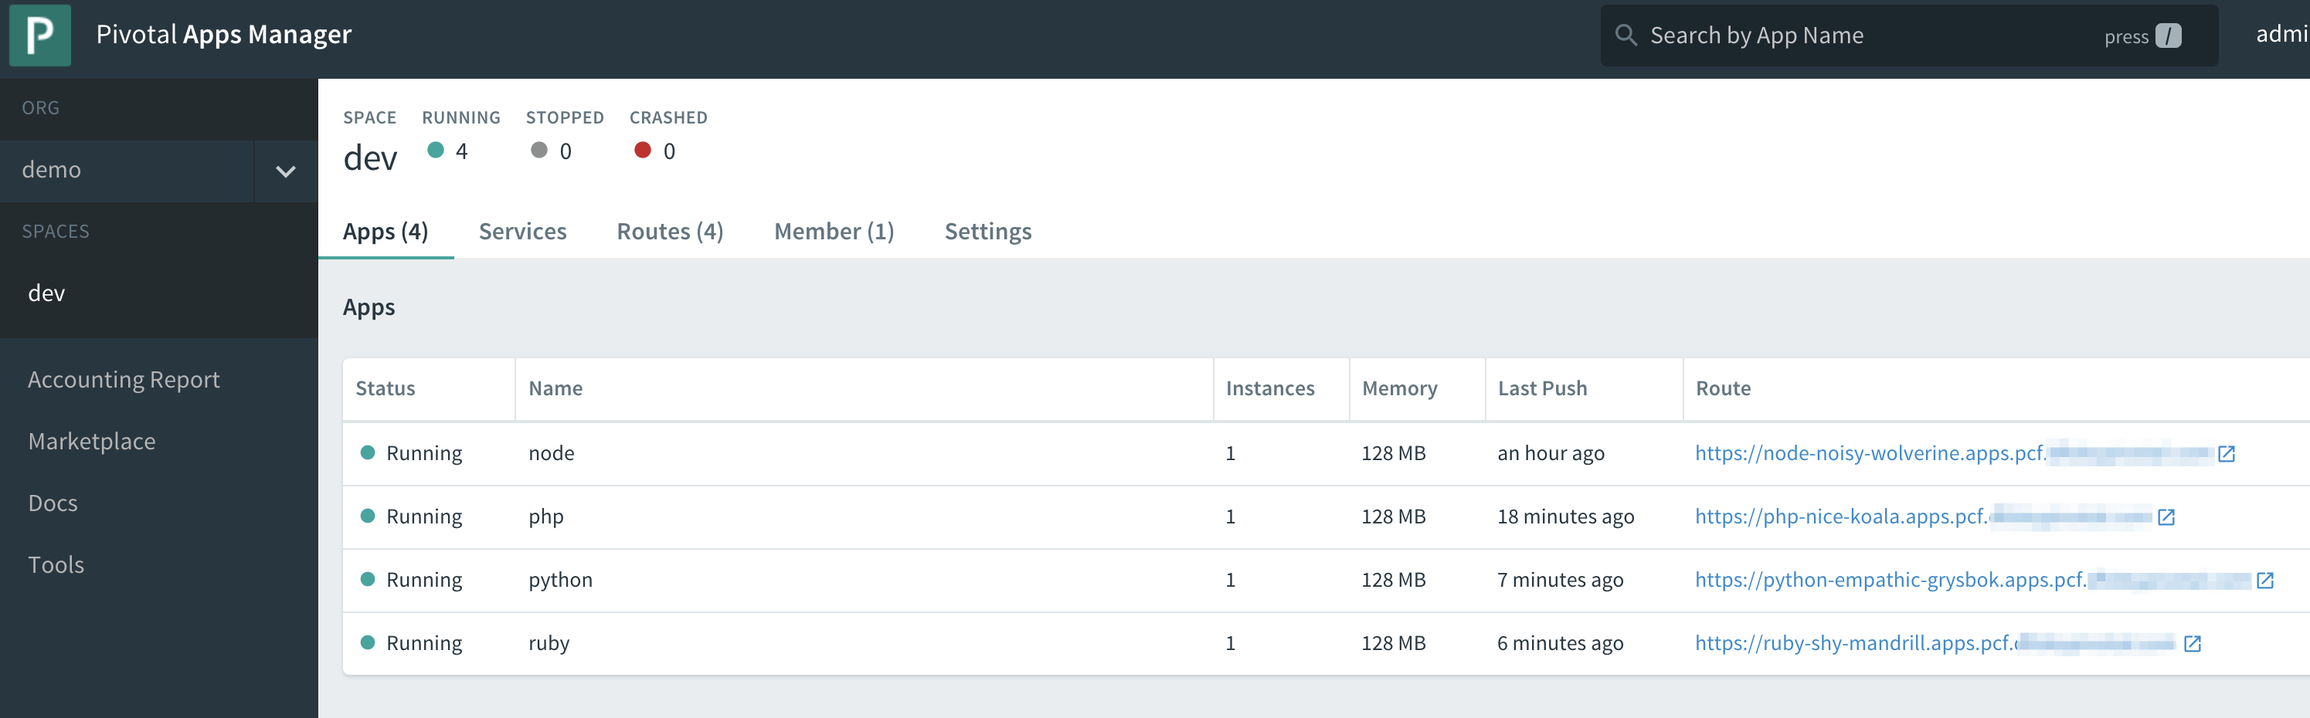
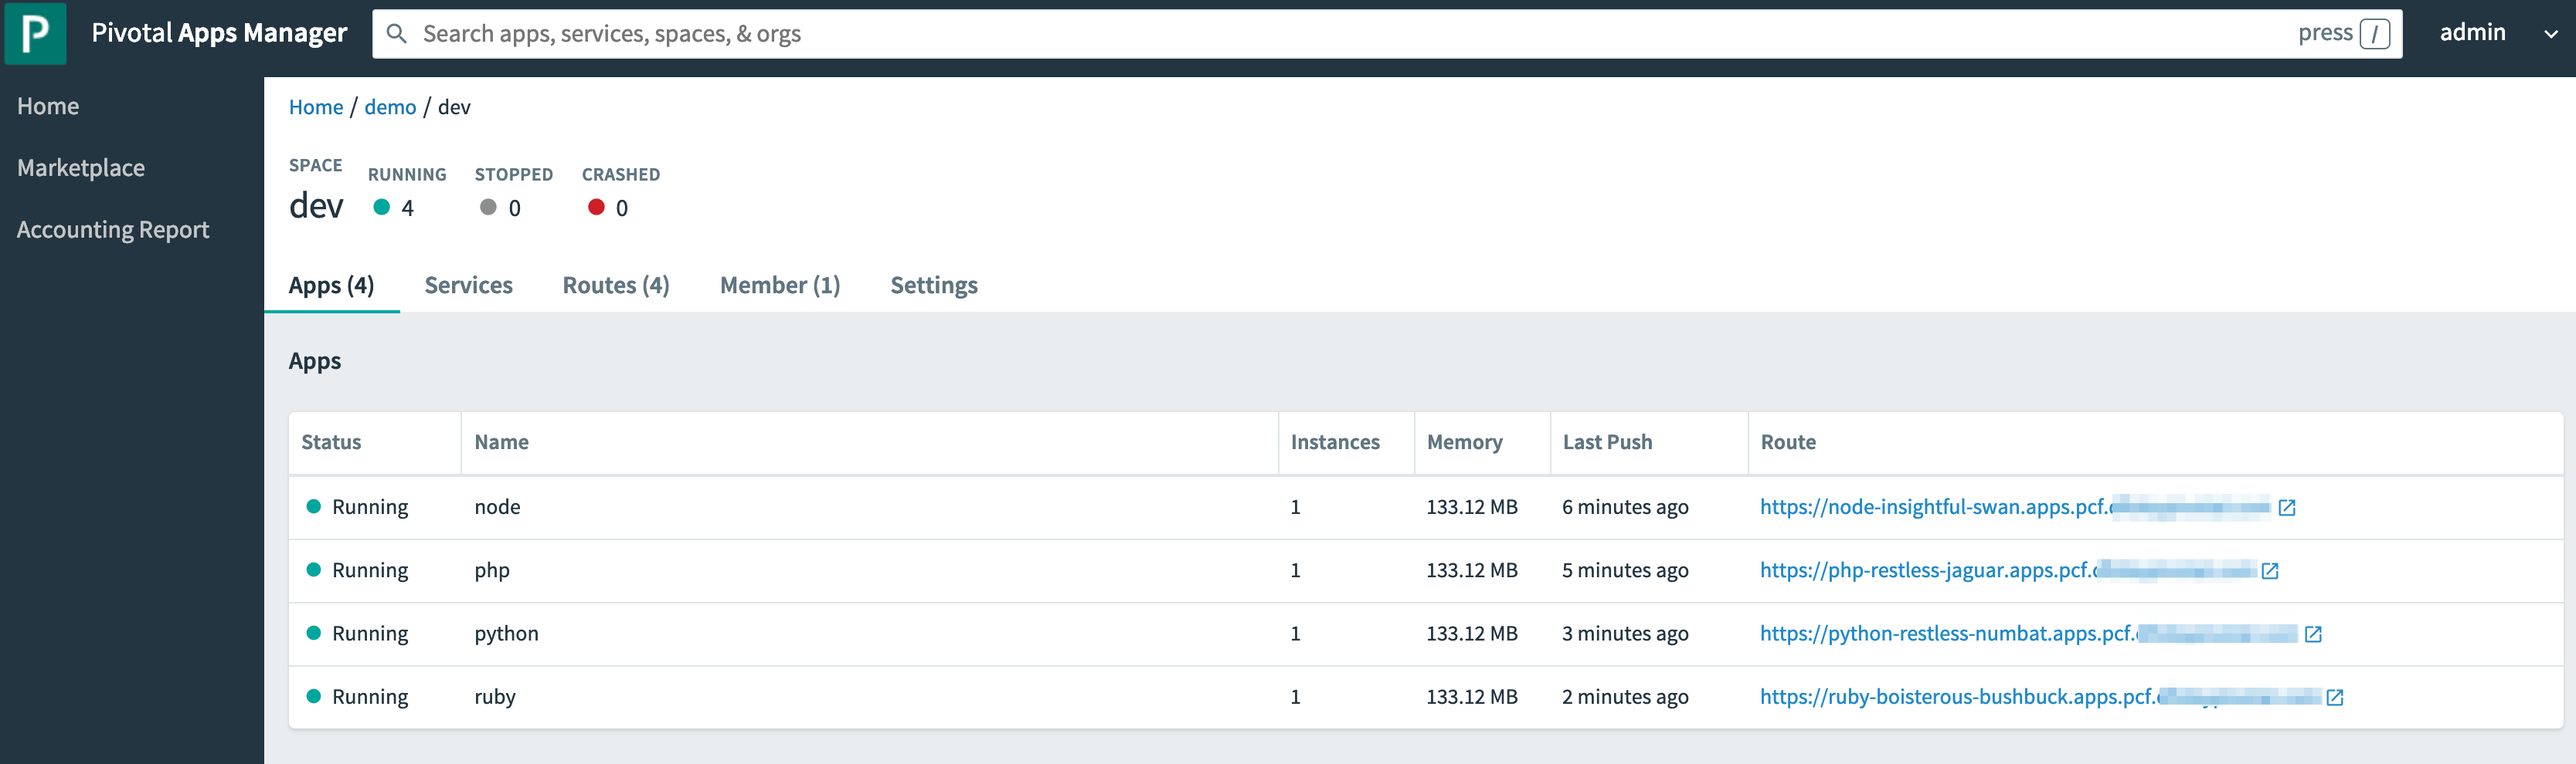
Updated screenshots for latest GCP Quickstart

diff --git a/README.md b/README.md
@@ -1,5 +1,5 @@
 ![](images/title.png)  
-Update: November 29, 2018
+Update: February 4, 2019
 
 ## Introduction
 
@@ -127,7 +127,7 @@ cf target -o demo -s dev
 <a id="pushapp"></a>
 ## Pushing Apps 
 
-You deploy an app to Cloud Foundry by running a cf push command from the Cloud Foundry Command Line Interface (cf CLI). Between the time that you run cf push and the time that the app is available, Cloud Foundry performs the following tasks:
+You deploy an app to Cloud Foundry by running a **cf push** command from the Cloud Foundry Command Line Interface (cf CLI). Between the time that you run cf push and the time that the app is available, Cloud Foundry performs the following tasks:
 
 - Uploads and stores app files
 - Examines and stores app metadata
@@ -211,7 +211,7 @@ curl <your php application url>
 
 You just deployed four applications each based on a different language and runtime. Pivotal Cloud Foundry is a polyglot platform, meaning it supports multiple languages and does so in a pluggable way (via buildpacks)!
 
-- Switch over to you browser and let refresh the Apps Manger page. You may have to login again. On the left hand side select the **demo** ORG and then select the **dev** SPACE. You should now see all 4 application.
+- Switch over to you browser and let refresh the Apps Manger page. You may have to login again. Select the **demo** ORG and then select the **dev** SPACE. You should now see all 4 application.
 
     ![](images/image19.png)
 
@@ -839,6 +839,7 @@ cf login
 - Login with the newly create developer user. Notice that now you only have access to the **Demo** Org and no longer have access to the **System** Org. Only administrators should have access to system Org.
 
     ![](images/image90.png)
+    ![](images/image90.5.png)
 
 
 <a id="boshadmin"></a>
